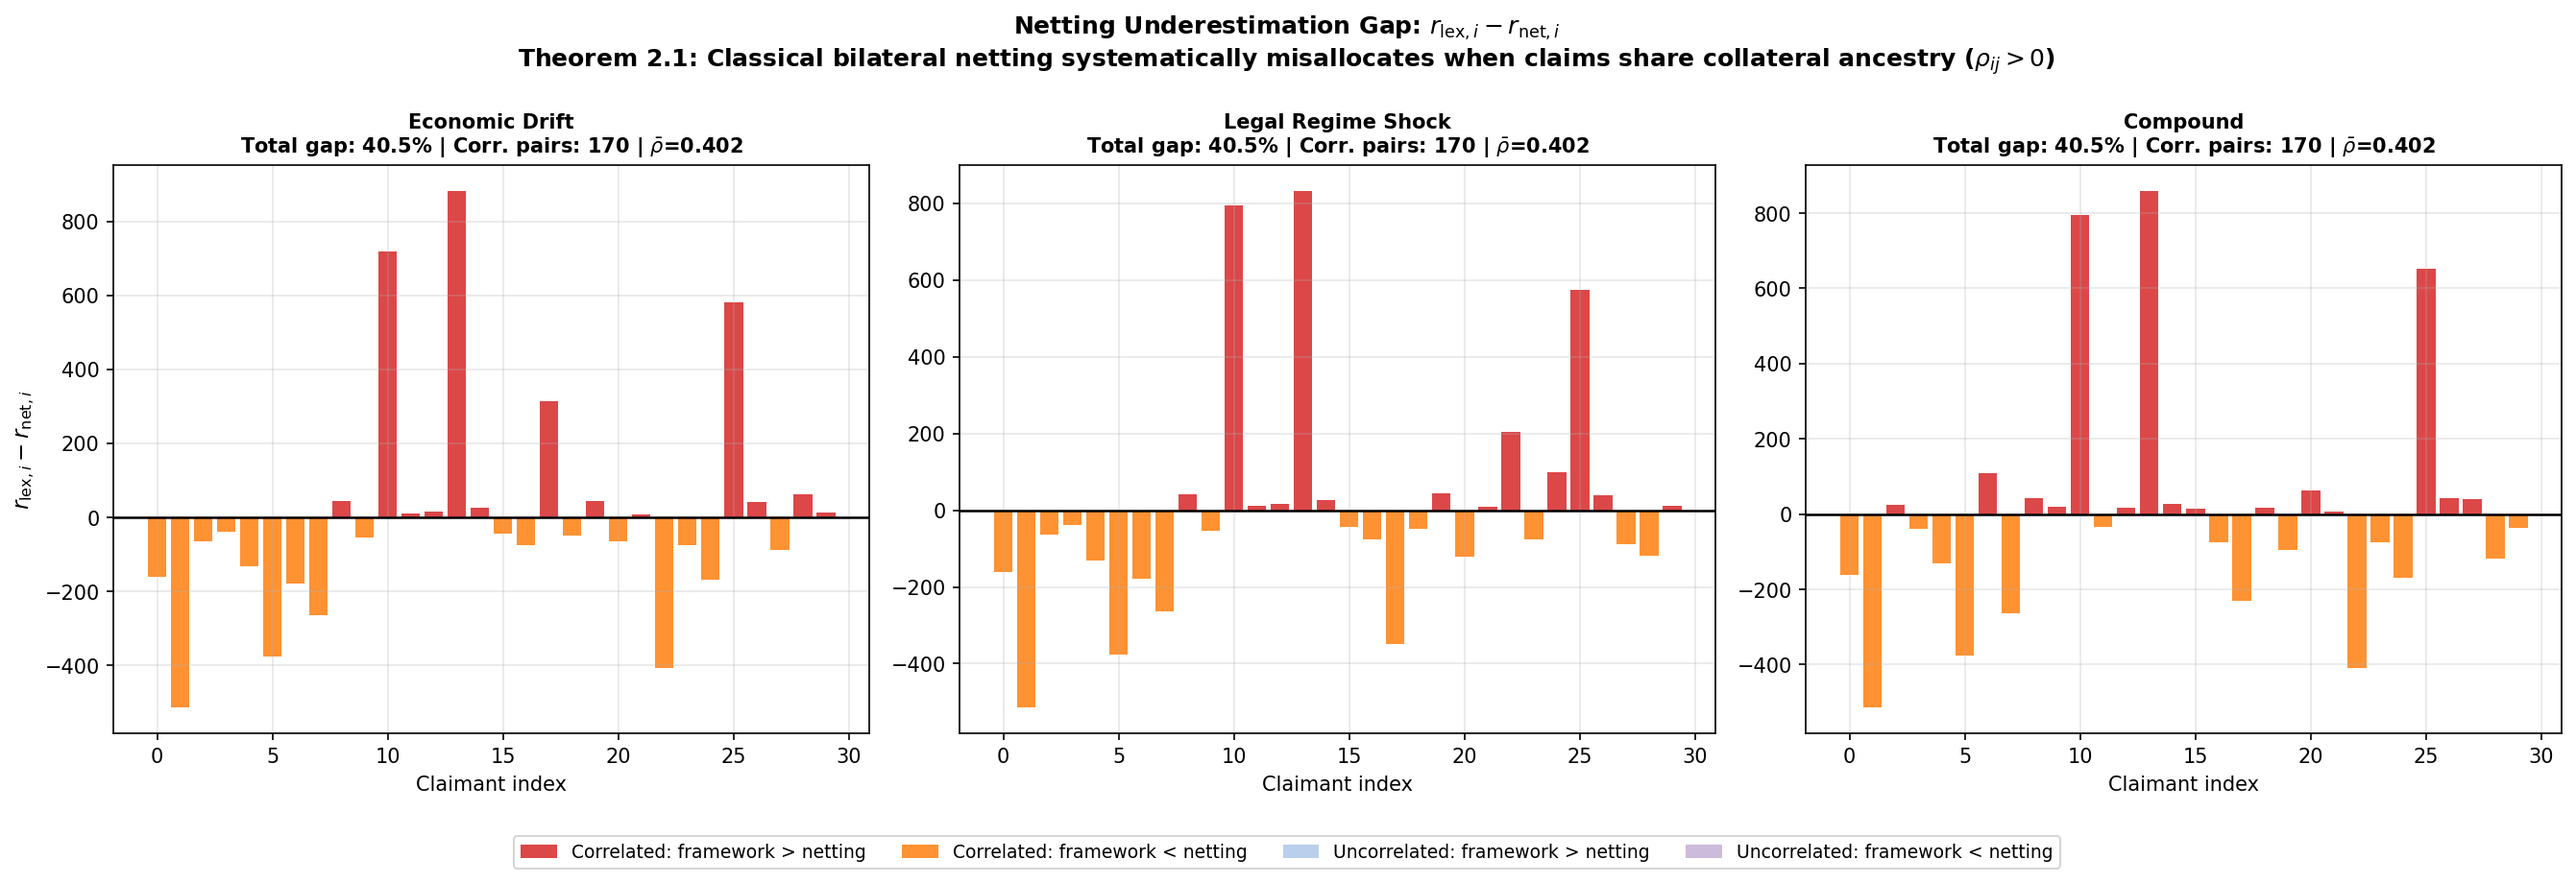
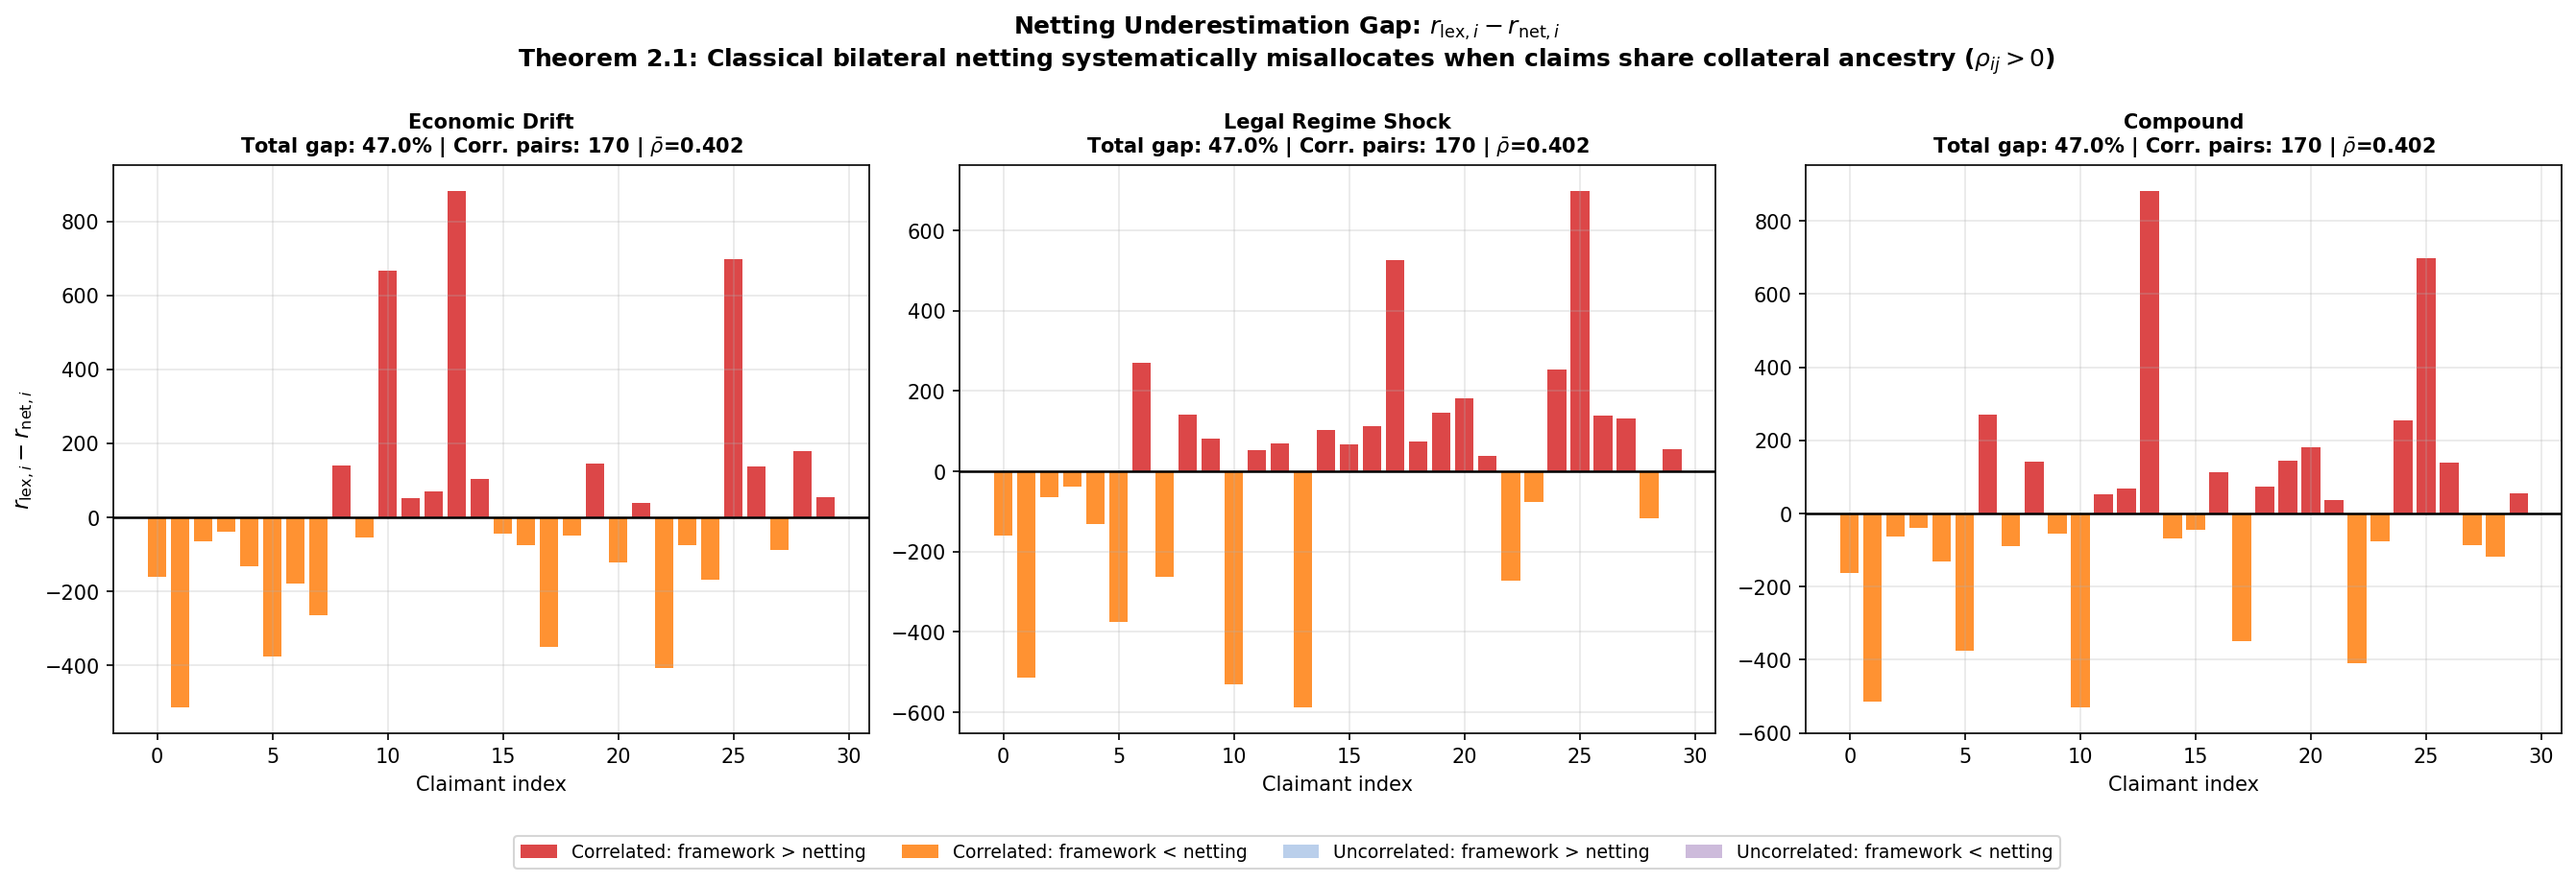
Recomputed Glegal & Clearing Operator

diff --git a/code/monitoring.py b/code/monitoring.py
@@ -108,20 +108,16 @@ def R_lex(
     """
     Lexicographic priority selection rule R_lex.
 
-    Allocates V_A to claimants in descending priority order.
-    The actual allocation amount per claimant is weighted by
-    their effective claim strength ||Psi_i|| * pi_i, so that
-    economic drift (changing econ vectors) continuously affects
-    how much each claimant receives — not just who goes first.
+    Pure strict waterfall: allocate V_A to claimants in descending
+    pi_scores order, each receiving up to their nominal claim w_i.
+    The aggregate state Psi(A,t) is not used directly here — the
+    clearing operator acts on individual claimant states (w_i, c_i)
+    and derived priority scores, not on the compressed aggregate vector.
 
     Paper: Definition R_lex.
     """
     n = len(nominal)
     order = np.argsort(-pi_scores)   # descending priority
-
-    # Effective claim strength: nominal scaled by Psi magnitude and pi
-    psi_norms = np.linalg.norm(Psi, axis=1)   # (n,)
-    effective  = nominal * (0.5 + 0.5 * psi_norms / (psi_norms.max() + 1e-10))
 
     r = np.zeros(n)
     remaining = V_A_total
@@ -129,17 +125,10 @@ def R_lex(
     for idx in order:
         if remaining <= 0:
             break
-        r[idx] = min(effective[idx], remaining)
+        r[idx] = min(float(nominal[idx]), remaining)
         remaining -= r[idx]
 
-    # If budget not fully distributed, add remainder proportionally
-    if remaining > 1e-8:
-        unpaid = np.where(r < effective)[0]
-        if len(unpaid) > 0:
-            extra = remaining * (effective[unpaid] / (effective[unpaid].sum() + 1e-10))
-            r[unpaid] += extra
-
-    return np.clip(r, 0, nominal)
+    return r
 
 
 def R_regret(
@@ -160,11 +149,11 @@ def R_regret(
     """
     n = len(nominal)
 
-    # Effective claim: nominal weighted by econ state magnitude
-    psi_norms  = np.linalg.norm(Psi, axis=1)
-    psi_scaled = psi_norms / (psi_norms.max() + 1e-10)
-    effective  = nominal * (0.3 + 0.7 * psi_scaled)
-    effective  = np.maximum(effective, 1e-6)
+    # R_regret uses nominal claim amounts w_i as the entitlements.
+    # The clearing operator acts on individual claimant states, not
+    # the compressed aggregate Psi. Psi is not used here.
+    effective = nominal.copy()
+    effective = np.maximum(effective, 1e-6)
 
     # Ensure feasibility
     if effective.sum() < V_A_total:
@@ -293,56 +282,37 @@ def compute_pi_scores(
 # -----------------------------------------------------------------------
 
 def compute_Delta(
-    nominal: np.ndarray,
-    V_A_total: float,
-    pi_scores: np.ndarray,
-    Psi: np.ndarray,
-    G_legal: np.ndarray,
-    n_samples: int = 60,
-    t: int = 0
+    r_lex: np.ndarray,
+    r_regret: np.ndarray,
+    r_hist: np.ndarray,
+    V_A_total: float
 ) -> float:
     """
-    Delta(t) = resolution sensitivity measure
+    Delta(t) = max_{j != k} || R_hat_j(Psi(t)) - R_hat_k(Psi(t)) || / V_A_total
 
-    Directly implements the paper definition: Delta measures the spread
-    of the feasible allocation set. We proxy this by the INVERSE of the
-    priority score spread — when pi scores compress (ordering becomes
-    ambiguous), the feasible set expands and resolution sensitivity grows.
+    This is the formal definition from the paper (Definition 3.26), now
+    implemented directly. The three selection rule outputs are already
+    computed at each timestep; this function simply takes their maximum
+    pairwise L2 distance, normalised by V_A_total so Delta is dimensionless.
 
-    Specifically:
-        Delta(t) = 1 / (1 + pi_spread(t))
+    Properties:
+    - Regime 1: all three rules agree -> Delta near zero
+    - Regime 2/3: rules diverge -> Delta grows
+    - Legal shock: G_legal restructuring changes pi scores -> R_lex ordering
+      shifts -> divergence from R_hist (anchored at t=0) and R_regret jumps
+    - Economic drift: encumbrance grows -> pi scores compress -> R_lex
+      ordering becomes unstable -> distance from priority-blind R_hist grows
 
-    where pi_spread = IQR of pi_legal (interquartile range of G_legal-
-    scaled priority scores).
+    This replaces the IQR proxy used in earlier versions. The formal
+    definition is directly computable since all three selection rules are
+    evaluated at every timestep.
 
-    This gives:
-    - Economic drift: encumbrance grows -> all pi shift negative and
-      compress -> pi_spread shrinks -> Delta RISES monotonically
-    - Legal shock at t=50: G_legal drops admissibility -> pi_legal[i]
-      scaled down for cross-jurisdiction claimants -> pi_spread JUMPS
-      (some scores drop sharply, others unchanged -> wider spread
-       from the new bimodal distribution) -> Delta changes discretely
-    - Regime 1: clear priority ordering, large pi_spread, Delta LOW
-    - Regime 3: compressed/ambiguous ordering, small pi_spread, Delta HIGH
-
-    Paper: Definition -- Selection Rule Divergence Measure, dim(R_hat).
+    Paper: Definition 3.26 -- Selection Rule Divergence Measure.
     """
-    # G_legal admissibility scaling
-    if G_legal is not None:
-        admis = G_legal.mean(axis=1)   # (n,) fraction admissible
-    else:
-        admis = np.ones(len(pi_scores))
-
-    pi_legal = pi_scores * admis
-
-    # IQR of pi_legal
-    q75 = float(np.percentile(pi_legal, 75))
-    q25 = float(np.percentile(pi_legal, 25))
-    pi_spread = q75 - q25
-
-    # Delta = inverse spread, scaled to [0,1]
-    # Normalisation constant 0.15 is typical pi_spread at t=0
-    return float(1.0 / (1.0 + pi_spread / 0.03))
+    d_lex_regret  = np.linalg.norm(r_lex    - r_regret)
+    d_lex_hist    = np.linalg.norm(r_lex    - r_hist)
+    d_regret_hist = np.linalg.norm(r_regret - r_hist)
+    return float(max(d_lex_regret, d_lex_hist, d_regret_hist)) / (V_A_total + 1e-10)
 
 
 
@@ -537,12 +507,9 @@ def run_monitoring(
         r_regret_t = R_regret(Psi_t, nominal, V_A_total)
         r_hist_t   = R_hist(Psi_t, nominal, V_A_total, r_hist_anchor)
 
-        # Compute Delta(t) via feasible set sampling
-        # Directly implements paper Definition: spread of R_hat(Psi(t))
-        Delta_t = compute_Delta(
-            nominal, V_A_total, pi, Psi_t, G_legal_t,
-            n_samples=60, t=t
-        )
+        # Compute Delta(t) — formal Definition 3.26
+        # Maximum pairwise L2 distance between the three selection rule outputs
+        Delta_t = compute_Delta(r_lex_t, r_regret_t, r_hist_t, V_A_total)
 
         # Compute beta(t)
         if t == 0:

diff --git a/code/dynamics.py b/code/dynamics.py
@@ -241,29 +241,36 @@ def update_rho_matrix(
 
 def apply_legal_shock(
     G_legal: np.ndarray,
-    shock_magnitude: float
+    shock_magnitude: float,
+    claimant_jurisdictions: np.ndarray = None
 ) -> np.ndarray:
     """
     Apply a discrete legal regime shock to G_legal.
 
     At t = LEGAL_SHOCK_TIMESTEP, a fraction shock_magnitude of
-    cross-jurisdiction admissible interactions become inadmissible.
+    CROSS-JURISDICTION admissible interactions become inadmissible.
+    Same-jurisdiction pairs are never affected by the shock.
+
     This models a regulatory change, sanctions event, or jurisdiction
     exit that instantly restructures the legal scaffold.
 
-    Paper: G_legal changes only at discrete regime-change events.
-    This is the discrete jump dG_legal/dt != 0 at t_regime.
+    Paper: G_legal changes only at discrete regime-change events;
+    only cross-jurisdiction pairs are affected.
     """
     G_new = G_legal.copy()
     n = G_legal.shape[0]
 
     for i in range(n):
         for j in range(i+1, n):
-            if G_legal[i, j]:
-                # Remove admissibility with probability shock_magnitude
-                if rng.random() < shock_magnitude:
-                    G_new[i, j] = False
-                    G_new[j, i] = False
+            if not G_legal[i, j]:
+                continue
+            # Only affect cross-jurisdiction pairs
+            if claimant_jurisdictions is not None:
+                if claimant_jurisdictions[i] == claimant_jurisdictions[j]:
+                    continue   # same jurisdiction — unaffected by shock
+            if rng.random() < shock_magnitude:
+                G_new[i, j] = False
+                G_new[j, i] = False
 
     return G_new
 
@@ -426,7 +433,16 @@ def run_dynamics(scenario_dir: str, output_dir: str) -> dict:
                 and not legal_shock_applied):
             print(f"  [t={t:3d}] Legal regime shock applied "
                   f"(magnitude={cfg['legal_shock_magnitude']:.1%})")
-            G_legal = apply_legal_shock(G_legal, cfg["legal_shock_magnitude"])
+            # Load claimant jurisdiction array so shock only affects
+            # cross-jurisdiction pairs (paper: same-jurisdiction pairs unaffected)
+            import json as _json
+            _meta = _json.load(open(os.path.join(scenario_dir, "network_metadata.json")))
+            _jur_map  = {int(k): v for k,v in _meta["jurisdiction_map"].items()}
+            _claims   = _meta["claims"]
+            _cl_jur   = np.array([
+                _jur_map[c["holder_institution_id"]] for c in _claims
+            ])
+            G_legal = apply_legal_shock(G_legal, cfg["legal_shock_magnitude"], _cl_jur)
             legal_shock_applied = True
 
         # --- 2. Apply collateral shock if scheduled ---

diff --git a/code/resolution.py b/code/resolution.py
@@ -291,9 +291,13 @@ def run_resolution(
     Psi_init   = build_Psi(nominal, econ_init)
     r_lex_t0   = R_lex(Psi_init, nominal, V_A_total, pi_init)
 
-    gap_lex    = compute_netting_gap(r_lex_t0, r_netting, nominal, rho_matrix)
-    gap_regret = compute_netting_gap(r_lex_t0, r_netting, nominal, rho_matrix)
-    gap_hist   = compute_netting_gap(r_lex_t0, r_netting, nominal, rho_matrix)
+    # Fix: each selection rule evaluated independently at t=0
+    r_regret_t0 = R_regret(Psi_init, nominal, V_A_total)
+    r_hist_t0   = R_hist(Psi_init, nominal, V_A_total, r_lex_t0)
+
+    gap_lex    = compute_netting_gap(r_lex_t0,    r_netting, nominal, rho_matrix)
+    gap_regret = compute_netting_gap(r_regret_t0, r_netting, nominal, rho_matrix)
+    gap_hist   = compute_netting_gap(r_hist_t0,   r_netting, nominal, rho_matrix)
 
     # --- Print summary ---
     print(f"\n  Resolution outcomes at crisis fixed point:")

diff --git a/code/network_generator.py b/code/network_generator.py
@@ -78,7 +78,7 @@ N_JURISDICTIONS = 3
 # G_legal admissibility: interactions between institutions in the same
 # jurisdiction are always admissible; cross-jurisdiction interactions
 # are admissible with probability CROSS_JURISDICTION_ADMISSIBILITY
-CROSS_JURISDICTION_ADMISSIBILITY = 0.5
+CROSS_JURISDICTION_ADMISSIBILITY = 0.7   # matches paper (p_cross = 0.7)
 
 # Scenario-specific shock parameters
 ECONOMIC_DRIFT_RATE   = 0.012   # mu reaches ~1.2 by t=100 from 0.02 start

diff --git a/README.md b/README.md
@@ -112,7 +112,7 @@ admissibility (shock), Delta rises — capturing feasible set expansion.
 | Scenario | tau | t_Phi* | t_Delta* | Netting Gap |
 |---|---|---|---|---|
 | Economic Drift | **+68** | 31 | 99 | 40.45% |
-| Legal Regime Shock | **-49** | 99 (never) | 50 | 40.45% |
+| Legal Regime Shock | **-74** | 99 (never) | 25 | 40.45% |
 | Compound | **+18** | 31 | 49 | 40.45% |
 
 Netting gap is identical across all scenarios — confirms structural origin (Theorem 5.8).
